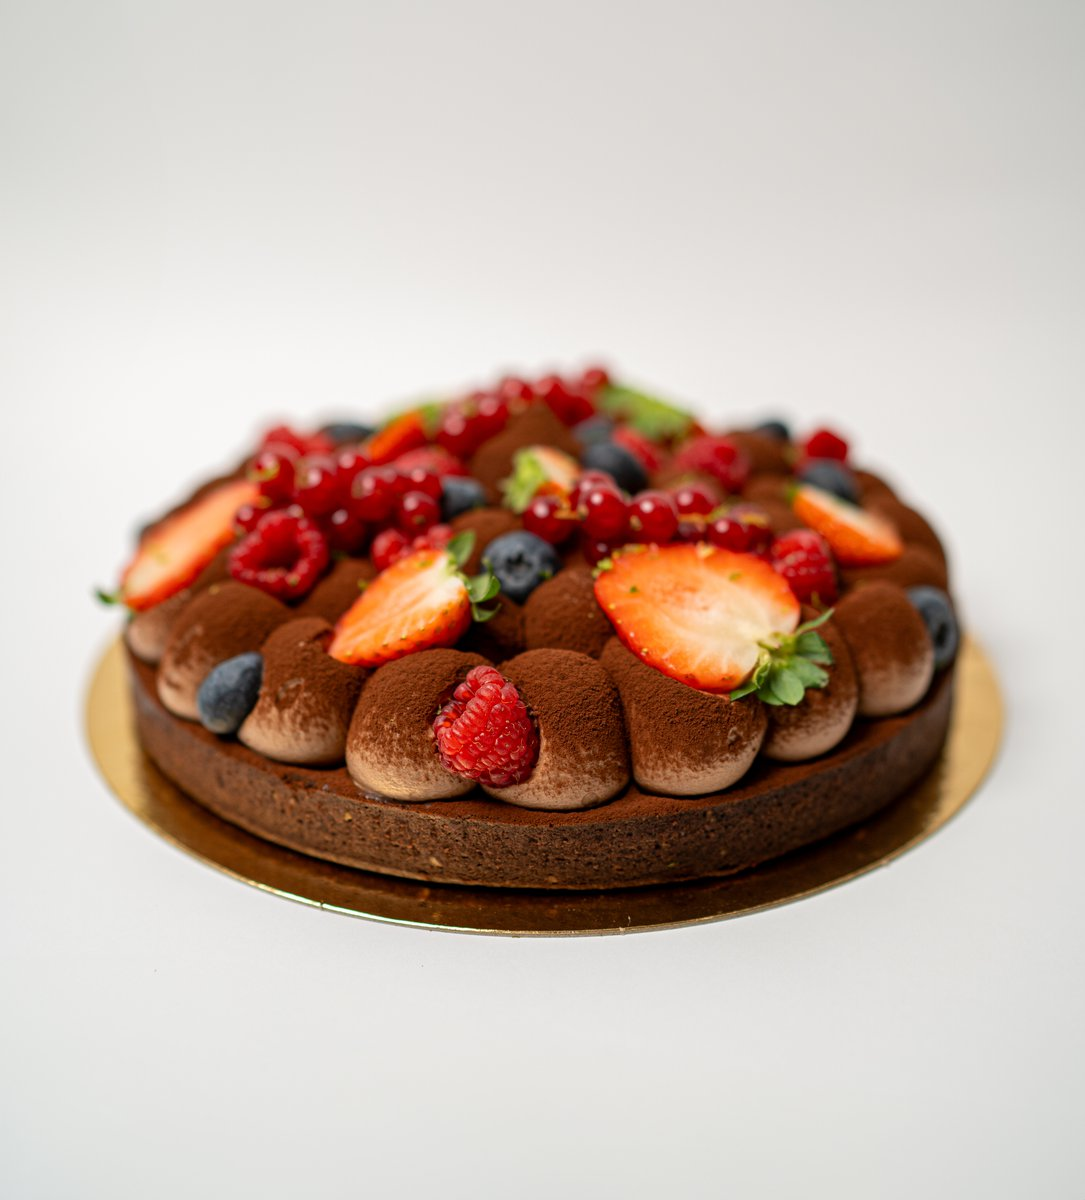
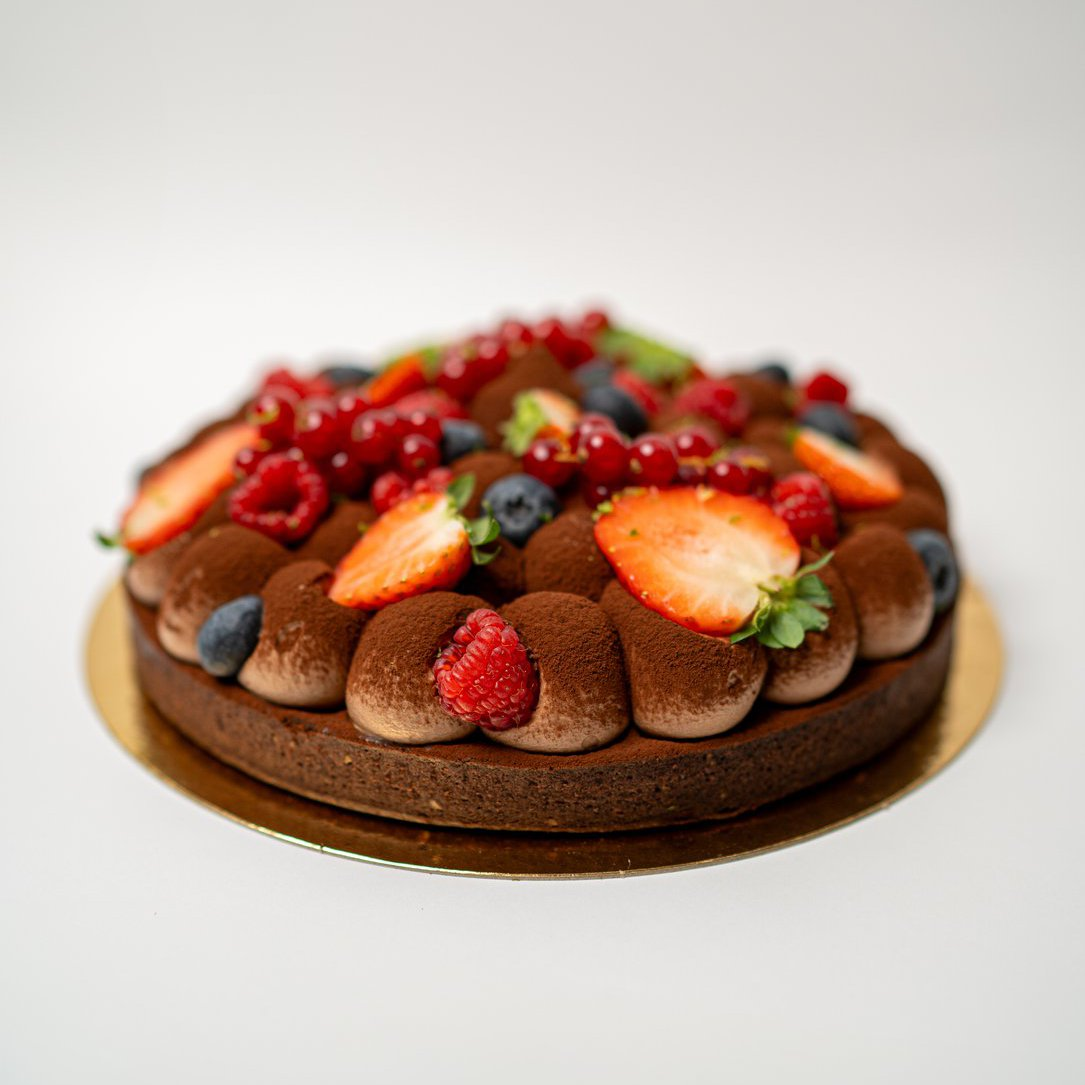
updated photos and some minor bug fixes

Changed region(s): [[0.0608, 0.5171, 0.9429, 0.8212], [0.1217, 0.2737, 0.882, 0.4866], [0.0608, 0.5475, 0.0912, 0.5779]]

diff --git a/resize_photos.py b/resize_photos.py
@@ -3,25 +3,43 @@ resize_photos.py
 ================
 Run from the repo root:  python resize_photos.py
 
-Resizes all JPEGs in data/photos/ in place.
-- Max 1200px on the longest side (no upscaling)
-- JPEG quality 85%
-- Skips anything already within limits
+Processes all JPEGs/PNGs in data/photos/:
+1. Centre-crops to square (so all photos have the same aspect ratio)
+2. Resizes to MAX_PX × MAX_PX (no upscaling)
+3. Saves as JPEG at JPEG_QUALITY (converts PNG → JPEG)
+4. Skips files already at the right size
+
+A backup of each original is saved alongside as {name}_original.jpg
+before the first crop/resize.
 """
 
-import os
 from pathlib import Path
 from PIL import Image
 
-PHOTOS_DIR  = Path("data/photos")
-MAX_PX      = 1200
+PHOTOS_DIR   = Path("data/photos")
+MAX_PX       = 1200
 JPEG_QUALITY = 85
 
+
+def centre_crop_square(img: Image.Image) -> Image.Image:
+    """Crop image to a square centred on the middle."""
+    w, h   = img.size
+    side   = min(w, h)
+    left   = (w - side) // 2
+    top    = (h - side) // 2
+    return img.crop((left, top, left + side, top + side))
+
+
 def resize_photos():
-    photos = list(PHOTOS_DIR.glob("*.jpg")) + list(PHOTOS_DIR.glob("*.jpeg"))
+    patterns = ["*.jpg", "*.jpeg", "*.png"]
+    photos   = []
+    for p in patterns:
+        photos.extend(PHOTOS_DIR.glob(p))
+    # Exclude backup files
+    photos = [p for p in photos if "_original" not in p.stem]
 
     if not photos:
-        print(f"No JPEG files found in {PHOTOS_DIR}")
+        print(f"No photo files found in {PHOTOS_DIR}")
         return
 
     print(f"Found {len(photos)} photo(s) in {PHOTOS_DIR}\n")
@@ -30,22 +48,46 @@ def resize_photos():
         with Image.open(path) as img:
             original_size = path.stat().st_size
             w, h = img.size
+            side = min(w, h)
 
-            if max(w, h) <= MAX_PX:
-                print(f"  SKIP  {path.name}  ({w}×{h}, already small enough)")
+            already_square = (w == h)
+            already_small  = (max(w, h) <= MAX_PX)
+
+            if already_square and already_small:
+                print(f"  SKIP  {path.name}  ({w}×{h}, already square and small)")
                 continue
 
-            # Resize preserving aspect ratio
-            img.thumbnail((MAX_PX, MAX_PX), Image.LANCZOS)
-            new_w, new_h = img.size
+            # Save backup of original before any modification
+            backup_path = path.with_stem(path.stem + "_original").with_suffix(".jpg")
+            if not backup_path.exists():
+                if img.mode != "RGB":
+                    img.convert("RGB").save(backup_path, "JPEG", quality=95)
+                else:
+                    img.save(backup_path, "JPEG", quality=95)
+                print(f"  BACKUP saved: {backup_path.name}")
 
-            # Convert to RGB if needed (e.g. PNG with alpha converted to JPEG)
-            if img.mode != "RGB":
-                img = img.convert("RGB")
+            # 1. Centre crop to square
+            img_sq = centre_crop_square(img)
 
-            img.save(path, "JPEG", quality=JPEG_QUALITY, optimize=True)
-            new_size = path.stat().st_size
+            # 2. Resize if still too large
+            if img_sq.size[0] > MAX_PX:
+                img_sq = img_sq.resize((MAX_PX, MAX_PX), Image.LANCZOS)
 
+            # 3. Convert to RGB if needed (PNG with alpha etc.)
+            if img_sq.mode != "RGB":
+                img_sq = img_sq.convert("RGB")
+
+            # 4. Save as JPEG (overwrites original, including PNGs)
+            out_path = path.with_suffix(".jpg")
+            img_sq.save(out_path, "JPEG", quality=JPEG_QUALITY, optimize=True)
+
+            # Remove original PNG if we just converted it
+            if path.suffix.lower() == ".png" and out_path != path:
+                path.unlink()
+                print(f"  CONVERTED PNG→JPG: {path.name} → {out_path.name}")
+
+            new_size = out_path.stat().st_size
+            new_w, new_h = img_sq.size
             print(
                 f"  OK    {path.name}  "
                 f"{w}×{h} → {new_w}×{new_h}  "
@@ -53,6 +95,7 @@ def resize_photos():
             )
 
     print("\nDone.")
+
 
 if __name__ == "__main__":
     resize_photos()

diff --git a/app/screen_catalogue.py b/app/screen_catalogue.py
@@ -425,7 +425,7 @@ def screen_catalogue():
                 sel_photo  = st.session_state.get(sel_key)
                 st.markdown(f"**{pr['name']}**")
                 if sel_photo and os.path.exists(sel_photo):
-                    st.image(sel_photo, use_container_width=True)
+                    st.image(sel_photo, width='stretch')
                     st.caption(os.path.basename(sel_photo))
                 else:
                     st.caption("Sin foto disponible")
@@ -435,7 +435,7 @@ def screen_catalogue():
                         for ph in pr["all_photos"]:
                             ph_name = os.path.basename(ph)
                             tc1, tc2 = st.columns([3, 1])
-                            tc1.image(ph, use_container_width=True)
+                            tc1.image(ph, width='stretch')
                             with tc2:
                                 st.write("")
                                 if st.button(
